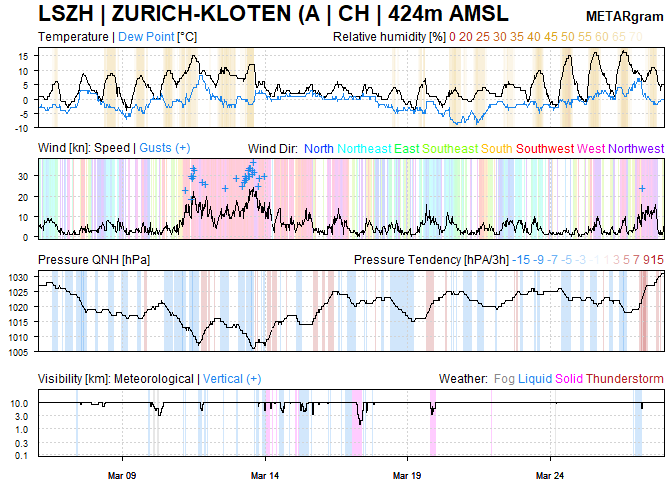
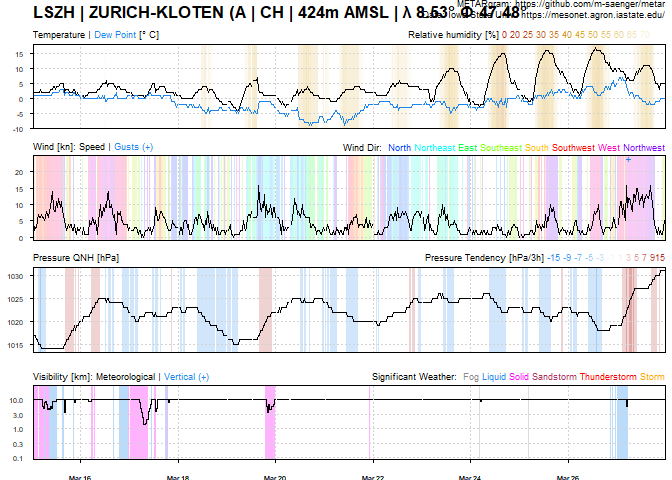
0.3.1b

diff --git a/README.md b/README.md
@@ -14,6 +14,9 @@ Install the development version from [GitHub](https://github.com/) with:
 devtools::install_github("m-saenger/metar")
 ```
 
+This package depends on **data.table**, **stringr**, **readr** and
+**lubridate**.
+
 ## Example
 
 ### Data retrieval and parsing
@@ -22,50 +25,35 @@ devtools::install_github("m-saenger/metar")
 library(metar)
 
 ## read raw data from Mesonet website
-dat <- read_mesonet("LSZH", as.POSIXct("2021-03-26"), as.POSIXct("2021-03-28"))
+dat <- read_mesonet("LSZH", as.POSIXct("2021-03-15"), as.POSIXct("2021-03-28"))
 
 ## parse METAR code
-dat.parsed <- parse_metar(dat$metar)
+dat.parsed <- parse_metar(dat$metar, date = dat$valid)
 
-# Structure
-str(dat.parsed)
-#> Classes 'data.table' and 'data.frame':   94 obs. of  35 variables:
-#>  $ icao       : chr  "LSZH" "LSZH" "LSZH" "LSZH" ...
-#>  $ time       : POSIXct, format: "2021-04-26 00:50:00" "2021-04-26 01:20:00" ...
-#>  $ speci      : chr  "0" "0" "0" "0" ...
-#>  $ auto       : chr  "0" "0" "0" "0" ...
-#>  $ cor        : chr  "0" "0" "0" "0" ...
-#>  $ wx         : chr  "CAVOK" "CAVOK" "CAVOK" "CAVOK" ...
-#>  $ dir        : int  NA NA NA NA 150 160 160 170 130 20 ...
-#>  $ ff         : num  1 2 1 1 3 4 5 5 2 2 ...
-#>  $ fx         : num  NA NA NA NA NA NA NA NA NA NA ...
-#>  $ ff_unit    : chr  "KT" "KT" "KT" "KT" ...
-#>  $ dir_from   : int  NA NA NA NA NA NA NA NA NA NA ...
-#>  $ dir_to     : int  NA NA NA NA NA NA NA NA NA NA ...
-#>  $ vis        : num  9999 9999 9999 9999 9999 ...
-#>  $ vis_unit   : chr  "M" "M" "M" "M" ...
-#>  $ ndv        : chr  NA NA NA NA ...
-#>  $ min_vis    : int  NA NA NA NA NA NA NA NA NA NA ...
-#>  $ min_vis_dir: chr  NA NA NA NA ...
-#>  $ rvr        : chr  "" "" "" "" ...
-#>  $ vvis       : num  NA NA NA NA NA NA NA NA NA NA ...
-#>  $ cld        : chr  "" "" "" "" ...
-#>  $ tt_sign    : chr  "P" "P" "P" "P" ...
-#>  $ tt         : num  5 5 4 3 2 3 3 3 2 2 ...
-#>  $ td_sign    : chr  "P" "P" "P" "P" ...
-#>  $ td         : num  1 2 1 1 0 1 1 0 0 1 ...
-#>  $ pw         : chr  "" "" "" "" ...
-#>  $ qnh_unit   : chr  "Q" "Q" "Q" "Q" ...
-#>  $ qnh        : num  1023 1023 1022 1022 1022 ...
-#>  $ ws         : chr  NA NA NA NA ...
-#>  $ metar      : chr  "VRB01KT CAVOK 05/01 Q1023 NOSIG" "VRB02KT CAVOK 05/02 Q1023 NOSIG" "VRB01KT CAVOK 04/01 Q1022 NOSIG" "VRB01KT CAVOK 03/01 Q1022 NOSIG" ...
-#>  $ rmk        : chr  NA NA NA NA ...
-#>  $ wind_factor: num  1 1 1 1 1 1 1 1 1 1 ...
-#>  $ vis_factor : num  1 1 1 1 1 1 1 1 1 1 ...
-#>  $ qnh_factor : num  1 1 1 1 1 1 1 1 1 1 ...
-#>  $ tt_factor  : num  1 1 1 1 1 1 1 1 1 1 ...
-#>  $ td_factor  : num  1 1 1 1 1 1 1 1 1 1 ...
-#>  - attr(*, ".internal.selfref")=<externalptr>
+# Structure  (subset of columns)
+print(dat.parsed[1:10, .(icao, metar, tt, ff, qnh)])
+#>     icao                                                              metar tt
+#>  1: LSZH                     25005KT 220V280 9999 FEW008 BKN012 02/01 Q1017  2
+#>  2: LSZH                             VRB02KT 9999 FEW008 BKN010 02/01 Q1017  2
+#>  3: LSZH 19003KT 120V230 9999 -SHSNRA FEW007 SCT011 BKN016 02/01 Q1017 RESN  2
+#>  4: LSZH              VRB03KT 9999 -SHSNRA FEW007 SCT012 BKN017 02/01 Q1016  2
+#>  5: LSZH         21005KT 9999 -SHSNRA FEW011 SCT014 BKN019 02/01 Q1016 RESN  2
+#>  6: LSZH              22007KT 9999 -SHSNRA FEW009 SCT015 BKN060 02/01 Q1015  2
+#>  7: LSZH                    20006KT 9999 FEW010 BKN013 02/01 Q1015 RESHSNRA  2
+#>  8: LSZH         22006KT 9999 -SHSNRA FEW009 SCT012 BKN017 03/01 Q1015 RESN  3
+#>  9: LSZH                     22007KT 9999 -SHSNRA FEW009 BKN012 02/01 Q1014  2
+#> 10: LSZH          22006KT 180V280 6000 -RASN BKN010 BKN015 02/01 Q1014 RESN  2
+#>     ff  qnh
+#>  1:  5 1017
+#>  2:  2 1017
+#>  3:  3 1017
+#>  4:  3 1016
+#>  5:  5 1016
+#>  6:  7 1015
+#>  7:  6 1015
+#>  8:  6 1015
+#>  9:  7 1014
+#> 10:  6 1014
 ```
 
 ### Example plot
@@ -88,35 +76,52 @@ ggplot(dat.parsed, aes(time, tt)) +
 dat.cld <- metar_clouds(dat.parsed$cl)    
 dat.cld$time <- dat.parsed$time
 
-# Structure
-str(dat.cld)
-#> Classes 'data.table' and 'data.frame':   94 obs. of  19 variables:
-#>  $ cld_levels : int  NA NA NA NA NA NA NA NA NA NA ...
-#>  $ cld_hgt_min: num  NA NA NA NA NA NA NA NA NA NA ...
-#>  $ cld_hgt_max: num  NA NA NA NA NA NA NA NA NA NA ...
-#>  $ cld_amt_max: chr  NA NA NA NA ...
-#>  $ cld_amt_min: chr  NA NA NA NA ...
-#>  $ ceiling    : num  NA NA NA NA NA NA NA NA NA NA ...
-#>  $ cld_str_1  : chr  NA NA NA NA ...
-#>  $ cld_str_2  : chr  NA NA NA NA ...
-#>  $ cld_str_3  : chr  NA NA NA NA ...
-#>  $ cld_amt_1  : chr  NA NA NA NA ...
-#>  $ cld_amt_2  : chr  NA NA NA NA ...
-#>  $ cld_amt_3  : chr  NA NA NA NA ...
-#>  $ cld_hgt_1  : num  NA NA NA NA NA NA NA NA NA NA ...
-#>  $ cld_hgt_2  : num  NA NA NA NA NA NA NA NA NA NA ...
-#>  $ cld_hgt_3  : num  NA NA NA NA NA NA NA NA NA NA ...
-#>  $ cld_type_1 : chr  NA NA NA NA ...
-#>  $ cld_type_2 : chr  NA NA NA NA ...
-#>  $ cld_type_3 : chr  NA NA NA NA ...
-#>  $ time       : POSIXct, format: "2021-04-26 00:50:00" "2021-04-26 01:20:00" ...
-#>  - attr(*, ".internal.selfref")=<externalptr>
+# Structure (subset of columns)
+print(dat.cld[1:10, .(time, cld_levels, cld_str_1 , cld_amt_1, cld_hgt_1, cld_type_1 )])
+#>                    time cld_levels cld_str_1 cld_amt_1 cld_hgt_1 cld_type_1
+#>  1: 2021-03-15 00:50:00          2    FEW008       FEW       800       <NA>
+#>  2: 2021-03-15 01:20:00          2    FEW008       FEW       800       <NA>
+#>  3: 2021-03-15 01:50:00          3    FEW007       FEW       700       <NA>
+#>  4: 2021-03-15 02:20:00          3    FEW007       FEW       700       <NA>
+#>  5: 2021-03-15 02:50:00          3    FEW011       FEW      1100       <NA>
+#>  6: 2021-03-15 03:20:00          3    FEW009       FEW       900       <NA>
+#>  7: 2021-03-15 03:50:00          2    FEW010       FEW      1000       <NA>
+#>  8: 2021-03-15 04:20:00          3    FEW009       FEW       900       <NA>
+#>  9: 2021-03-15 04:50:00          2    FEW009       FEW       900       <NA>
+#> 10: 2021-03-15 05:20:00          2    BKN010       BKN      1000       <NA>
 
 ggplot(dat.cld, aes(time, cld_hgt_1)) +
   geom_path() +
   labs(title = "Altitude of Lowest Cloud Level at LSZH Airport") +
   theme_bw()
-#> Warning: Removed 22 row(s) containing missing values (geom_path).
 ```
 
 <img src="man/figures/README-plot2-1.png" width="100%" />
+
+### METARgram - Timeseries
+
+``` r
+# Parse present weather group
+dat.pw <- dat.parsed[, metar_pw(pw)]
+
+# Structure (subset of columns)
+print(dat.pw[1:10, .(pw_grp_1, pw_grp_2, is_pp, RA, SN, DZ, is_solid, is_liquid, is_mixed)])
+#>     pw_grp_1 pw_grp_2 is_pp RA SN DZ is_solid is_liquid is_mixed
+#>  1:     <NA>     <NA>     0  0  0  0        0         0        0
+#>  2:     <NA>     <NA>     0  0  0  0        0         0        0
+#>  3:  -SHSNRA     <NA>     1  1  1  0        1         1        1
+#>  4:  -SHSNRA     <NA>     1  1  1  0        1         1        1
+#>  5:  -SHSNRA     <NA>     1  1  1  0        1         1        1
+#>  6:  -SHSNRA     <NA>     1  1  1  0        1         1        1
+#>  7:     <NA>     <NA>     0  0  0  0        0         0        0
+#>  8:  -SHSNRA     <NA>     1  1  1  0        1         1        1
+#>  9:  -SHSNRA     <NA>     1  1  1  0        1         1        1
+#> 10:    -RASN     <NA>     1  1  1  0        1         1        1
+
+# Bind data
+dat.plot <- cbind(dat.parsed, dat.pw)
+
+plot_metargram(dat = dat.plot, cex = 0.7)
+```
+
+<img src="man/figures/README-plot3-1.png" width="100%" />
